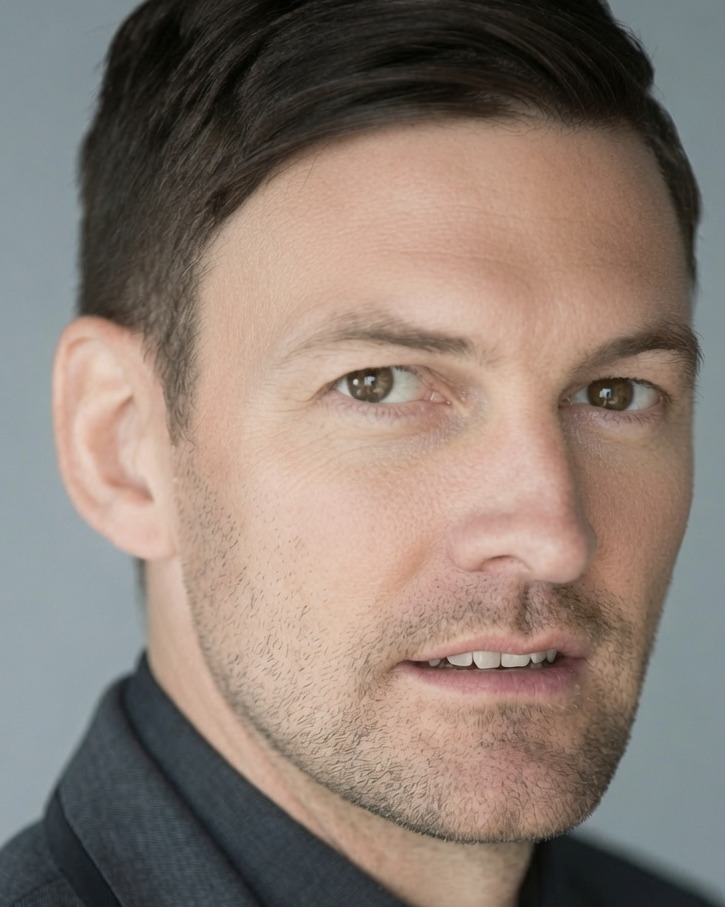
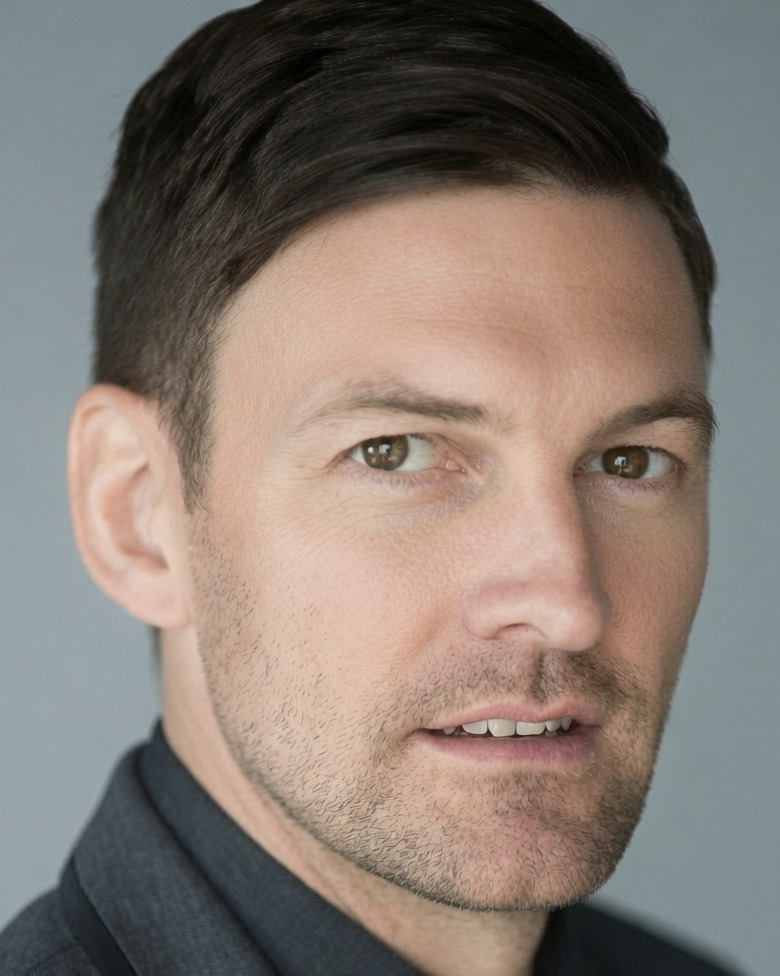
Recrop portrait: full hair, even side margins
Top edge moved to row 0 to keep every pixel of hair the master holds, and
the box recentred on the head (x 153-802) so the backdrop margins are 66px
left and 65px right, previously 51 and 25.

Note the master itself clips the top of his hair at row 0, so this is the
limit of what the source contains. Using the full height also puts the eye
line at ~46% rather than 40% — that is the trade for keeping the hair.

diff --git a/scripts/prepare_portrait.py b/scripts/prepare_portrait.py
@@ -26,10 +26,19 @@ SITE_ROOT = Path(__file__).resolve().parents[1]
 MASTER = Path.home() / "OneDrive" / "Pictures" / "Greg.jpg"
 OUT = SITE_ROOT / "src" / "assets" / "portrait.jpeg"
 
-# 4:5 crop chosen by inspection against the 1056x976 master: eyes land just
-# above the 42% line, the head keeps its margins, and the jacket stays in frame
-# at the bottom left. Aspect must remain 4:5 to match the frame in Hero.astro.
-CROP_BOX = (102, 68, 827, 975)
+# 4:5 crop against the 1056x976 master, using the full height of the source.
+#
+# The top edge sits at row 0 on purpose. The master itself already clips the top
+# of his hair — row 0 carries ~276 hair pixels across x 347-622 — so this is as
+# much hair as the photograph contains; there is nothing above it to recover.
+#
+# Horizontally the box is centred on the head, which spans x 153-802, leaving
+# 66px of backdrop on the left and 65px on the right. Taking the full height
+# does put the eye line at ~46% rather than the more conventional 40%, which is
+# the trade for keeping the hair intact.
+#
+# Aspect must remain 4:5 to match the frame in Hero.astro.
+CROP_BOX = (87, 0, 867, 976)
 
 
 def main() -> None:
